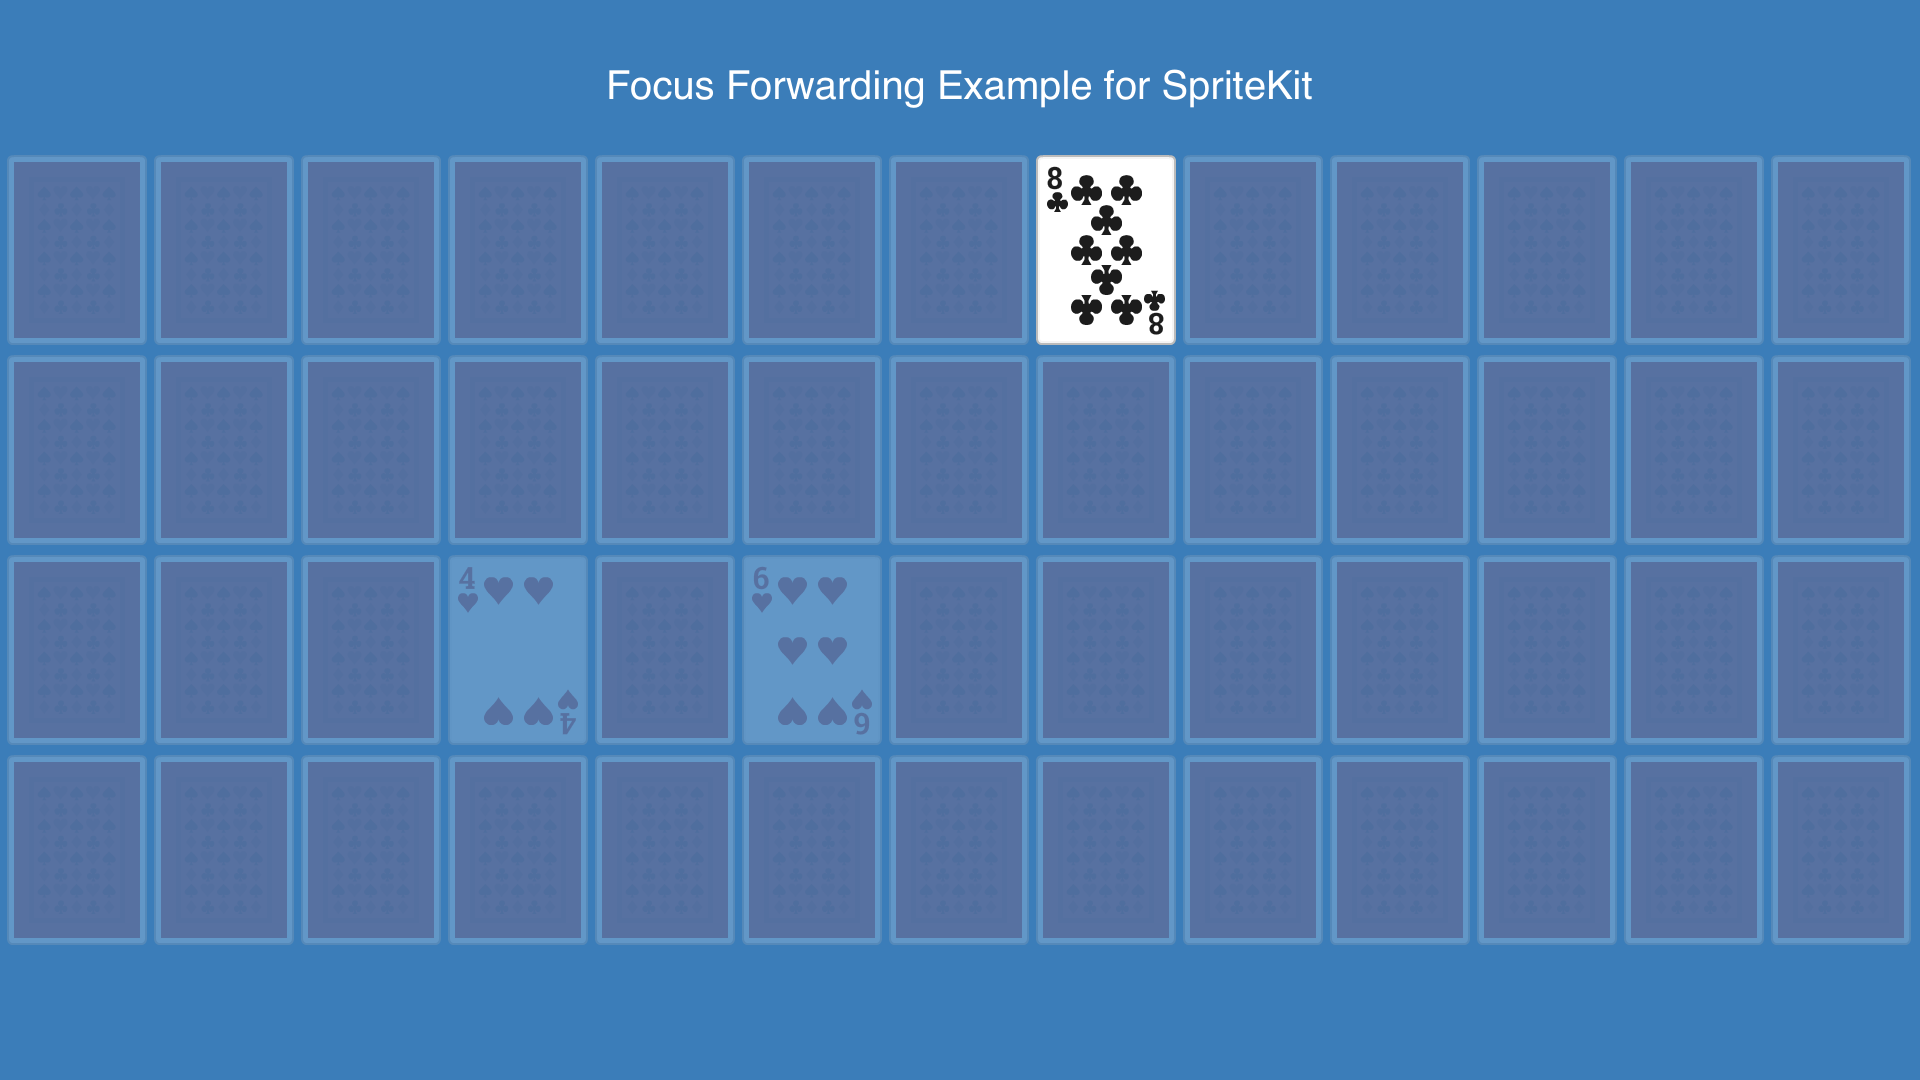
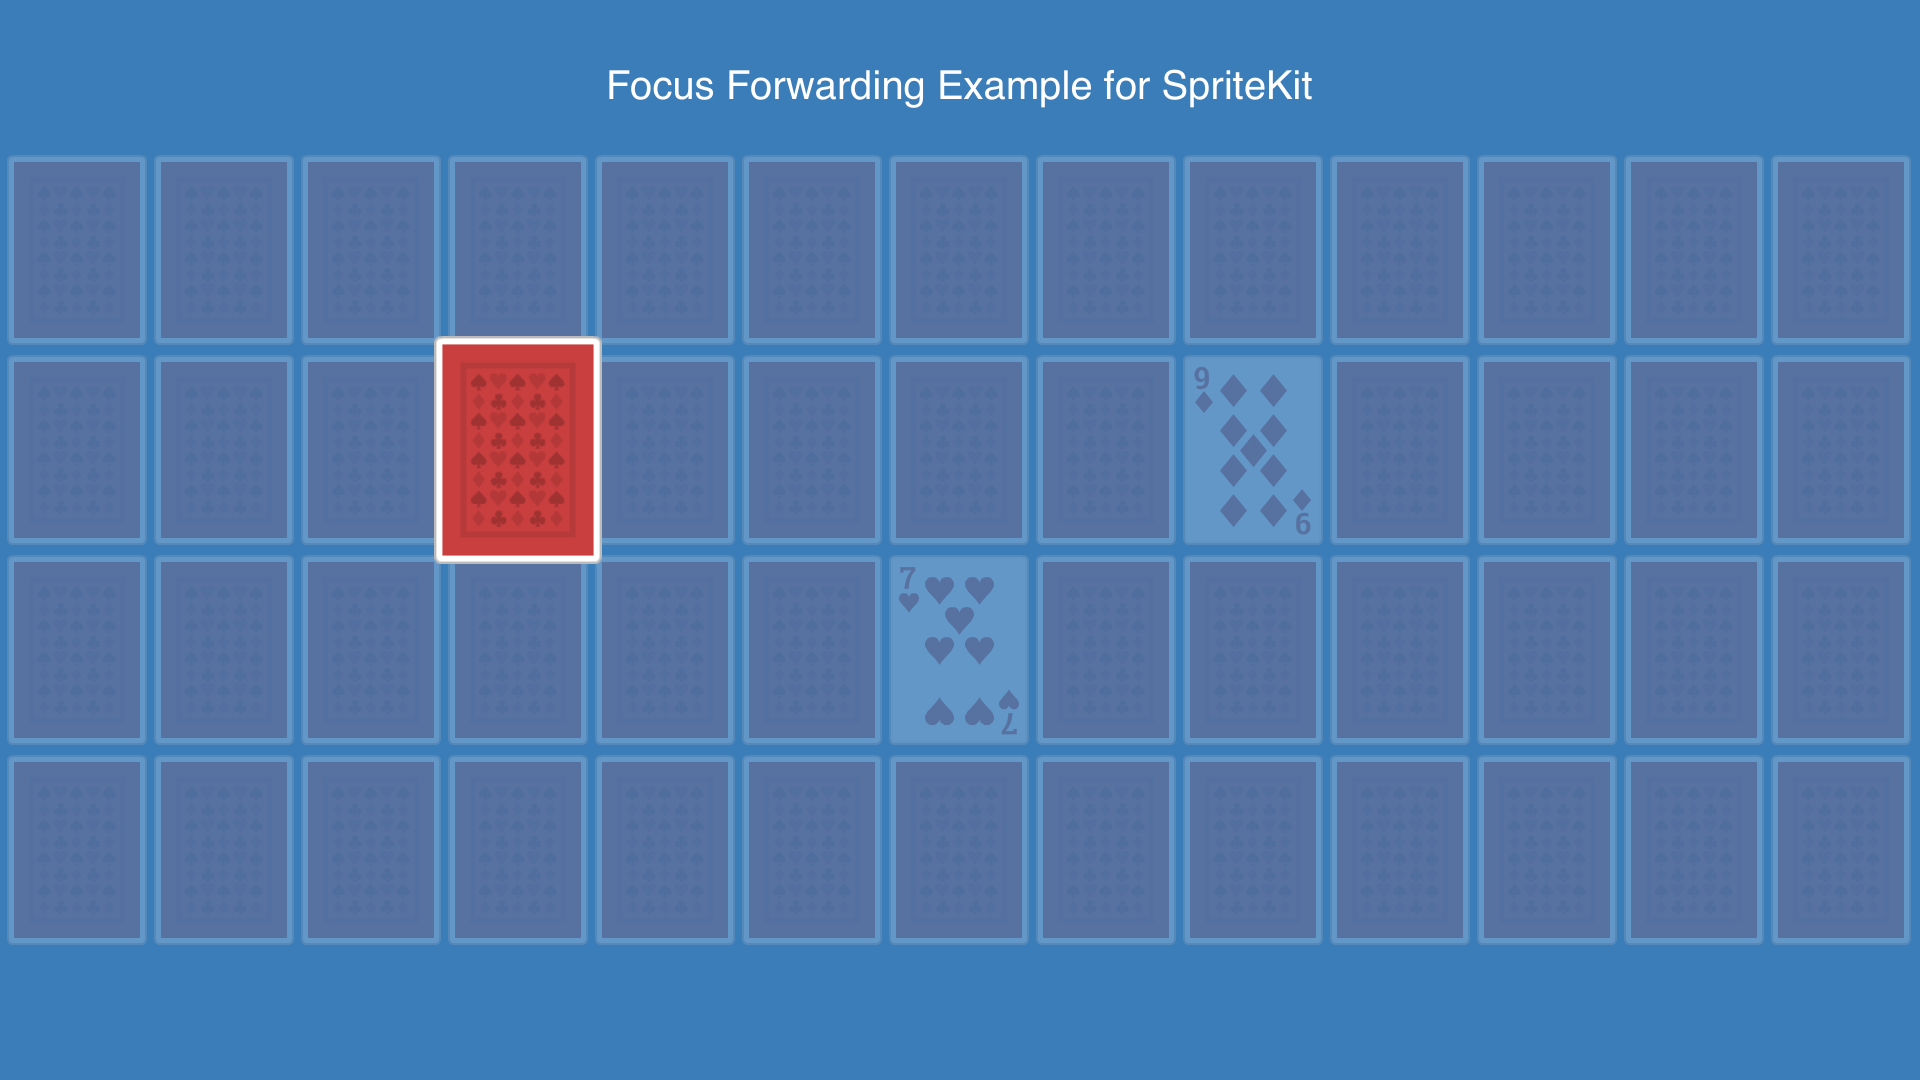
screenshot update & added animations

Changed region(s): [[0.2188, 0.3056, 0.3125, 0.7028], [0.5312, 0.1222, 0.6875, 0.5194], [0.375, 0.5194, 0.5312, 0.7028]]

diff --git a/CCFocusForwarderExample/GameScene.swift b/CCFocusForwarderExample/GameScene.swift
@@ -20,12 +20,22 @@ class GameScene: SKScene {
   
   var selectedCard: Card? {
     didSet {
+      var index: CGFloat = 0;
       for card: Card in self.cardDeck {
+        // TODO - This is hacky & comes with a performance impact, only apply actions to the cards that need to change!
+        var fadeAction: SKAction;
+        var scaleAction: SKAction;
         if card != self.selectedCard {
-          card.alpha = 0.2;
+          fadeAction = SKAction.fadeAlphaTo(0.2, duration: 0.2);
+          scaleAction = SKAction.scaleTo(1.0, duration: 0.2);
+          card.zPosition = index;
         } else {
-          card.alpha = 1.0;
+          fadeAction = SKAction.fadeAlphaTo(1.0, duration: 0.2);
+          scaleAction = SKAction.scaleTo(1.2, duration: 0.2);
+          card.zPosition = 999;
         }
+        card.runAction( SKAction.group([fadeAction, scaleAction]) );
+        index++;
       }
     }
   }
